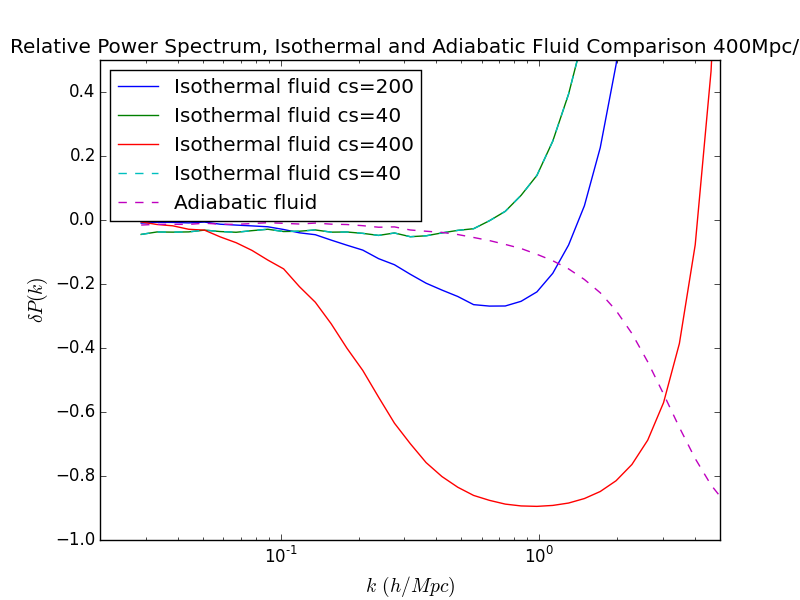
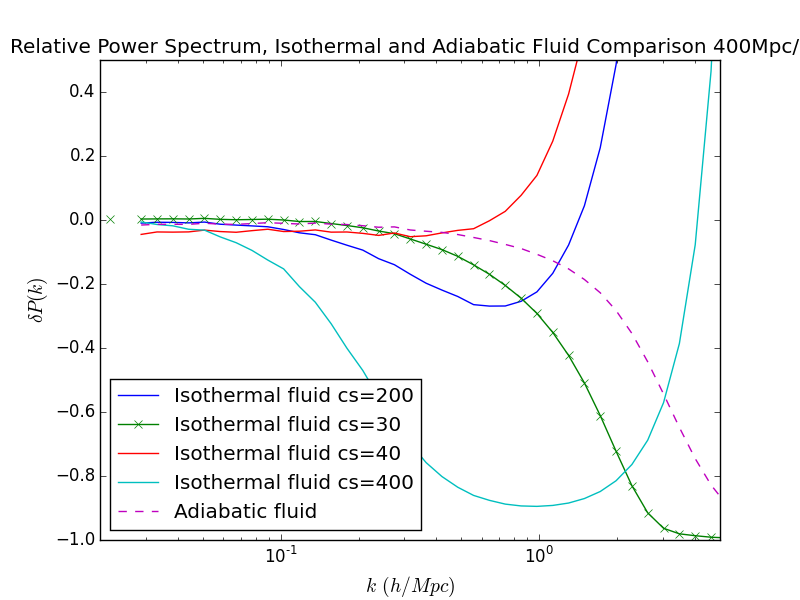
Added UseMinimumPressureSupport results and b=50 plot.

diff --git a/plots/isothermal/isothermal_fluid_low_adiabatic_normalized_particle_b50.py b/plots/isothermal/isothermal_fluid_low_adiabatic_normalized_particle_b50.py
@@ -11,10 +11,11 @@ npattern = re.compile(r'_n(\d+)')
 
 simtypes = ['fluid']
 for simtype in simtypes:
-    params = [simtype,'b200','n1024','t0.005','h2','isothermal']
+    params = [simtype,'b50','n512','t0.005','h2','isothermal']
     filenames = [filename for filename in results if all(param in filename for param in params)]
-    filenames.append('fluid_b200_n1024_t0.005_h2_z50.out')
-    base = 'particle_b200_n1024_t0.005_h2_z50.out'
+    filenames.append('fluid_b50_n512_t0.005_h2_z50.out')
+    filenames.append('fluid_b50_n1024_t0.005_h2_isothermal30_minpressure.out')
+    base = 'particle_b50_n512_t0.005_h2_z50.out'
     
     kvalues_base, ps_base = np.loadtxt(result_dir+base, unpack=True)
 
@@ -27,17 +28,17 @@ for simtype in simtypes:
                 ps = (ps - ps_base)/ps_base
                 style = '-x' if 'minpressure' in filename else '-'
                 plt.semilogx(kvalues, ps, style, label='Isothermal fluid cs='+isothermal)
-        elif filename is 'fluid_b200_n1024_t0.005_h2_z50.out': 
+        elif filename is 'fluid_b50_n512_t0.005_h2_z50.out': 
             kvalues, ps = np.loadtxt(result_dir+filename, unpack=True)
             ps = (ps - ps_base)/ps_base
             plt.semilogx(kvalues, ps, '--', label='Adiabatic fluid')
 
-plt.xlim([0.05,5e0])
-plt.ylim([-0.3,0.3])
+plt.xlim([1e-1,5e0])
+plt.ylim([-0.1,0.5])
 plt.xlabel('$k \, (h/Mpc)$', fontsize=14)
 plt.ylabel('$\delta P(k)$', fontsize=14)
-plt.title('Relative Power Spectrum, Isothermal and Adiabatic Fluid Comparison 200Mpc/h')
+plt.title('Relative Power Spectrum, Isothermal and Adiabatic Fluid Comparison 50 Mpc/h')
 plt.legend(numpoints=1, loc='best')
-plt.savefig('isothermal_fluid_low_adiabatic_normalized_particle_b200.png')
+plt.savefig('isothermal_fluid_low_adiabatic_normalized_particle_b50.png')
 
 plt.show()

diff --git a/plots/isothermal/isothermal_fluid_low_adiabatic_normalized_particle.py b/plots/isothermal/isothermal_fluid_low_adiabatic_normalized_particle.py
@@ -14,6 +14,7 @@ for simtype in simtypes:
     params = [simtype,'b100','n512','t0.005','h2','isothermal']
     filenames = [filename for filename in results if all(param in filename for param in params)]
     filenames.append('fluid_b100_n512_t0.005_h2_z50.out')
+    filenames.append('fluid_b100_n1024_t0.005_h2_isothermal30_minpressure.out')
     base = 'particle_b100_n512_t0.005_h2_z50.out'
     
     kvalues_base, ps_base = np.loadtxt(result_dir+base, unpack=True)
@@ -25,7 +26,8 @@ for simtype in simtypes:
                 n = npattern.findall(filename)[0]
                 kvalues, ps = np.loadtxt(result_dir+filename, unpack=True)
                 ps = (ps - ps_base)/ps_base
-                plt.semilogx(kvalues, ps, '-', label='Isothermal fluid cs='+isothermal)
+                style = '-x' if 'minpressure' in filename else '-'
+                plt.semilogx(kvalues, ps, style, label='Isothermal fluid cs='+isothermal)
         elif filename is 'fluid_b100_n512_t0.005_h2_z50.out': 
             kvalues, ps = np.loadtxt(result_dir+filename, unpack=True)
             ps = (ps - ps_base)/ps_base

diff --git a/plots/isothermal/isothermal_fluid_low_adiabatic_normalized_particle_b400.py b/plots/isothermal/isothermal_fluid_low_adiabatic_normalized_particle_b400.py
@@ -25,7 +25,7 @@ for simtype in simtypes:
                 n = npattern.findall(filename)[0]
                 kvalues, ps = np.loadtxt(result_dir+filename, unpack=True)
                 ps = (ps - ps_base)/ps_base
-                style = '--' if 'minpressure' in filename else '-'
+                style = '-x' if 'minpressure' in filename else '-'
                 plt.semilogx(kvalues, ps, style, label='Isothermal fluid cs='+isothermal)
         elif filename is 'fluid_b400_n1024_t0.005_h2_z50.out': 
             kvalues, ps = np.loadtxt(result_dir+filename, unpack=True)
